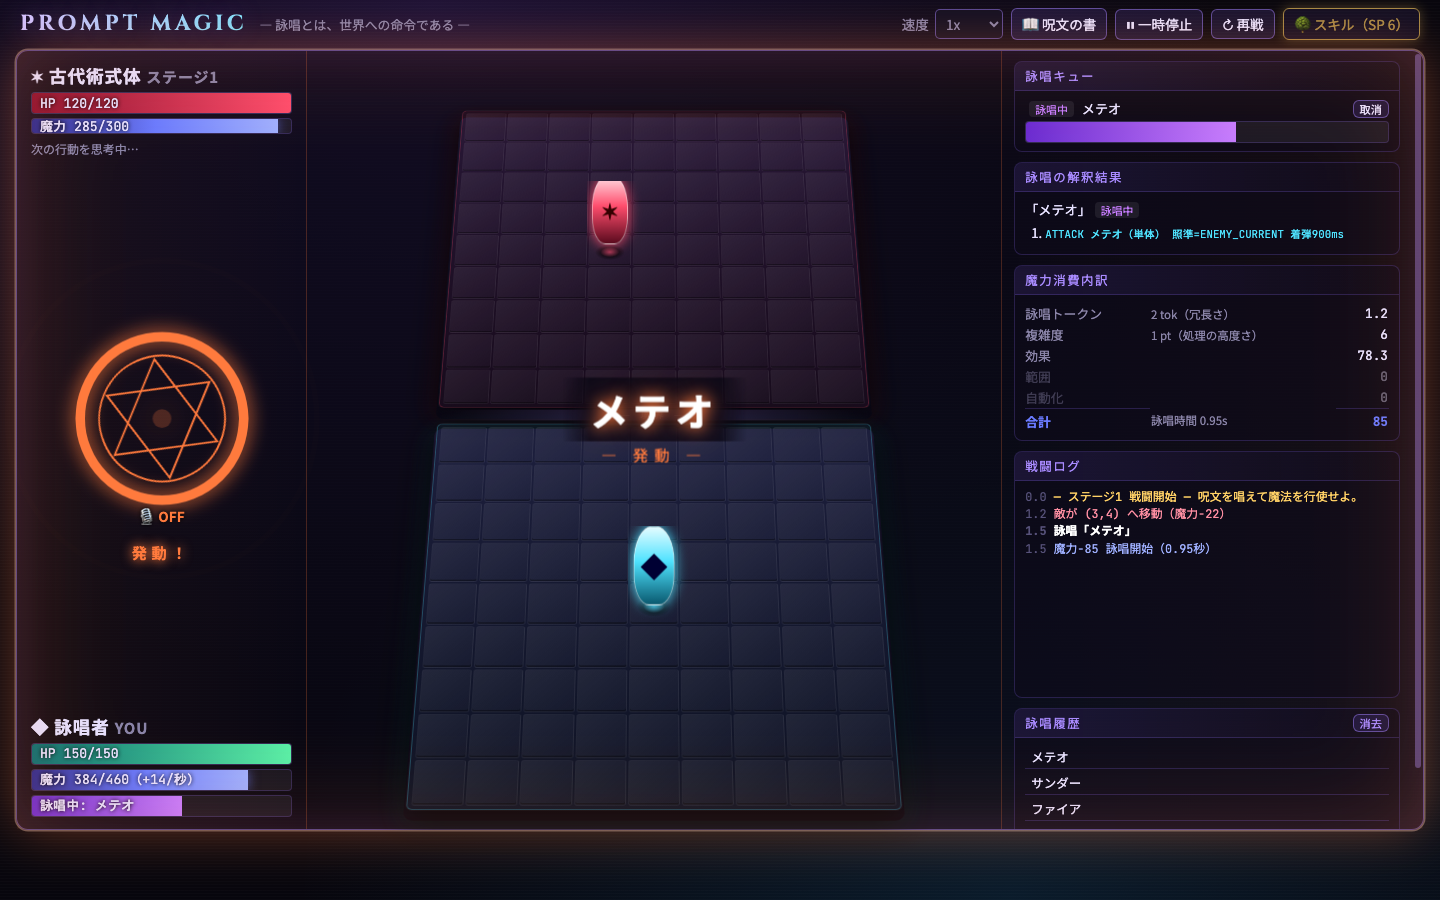
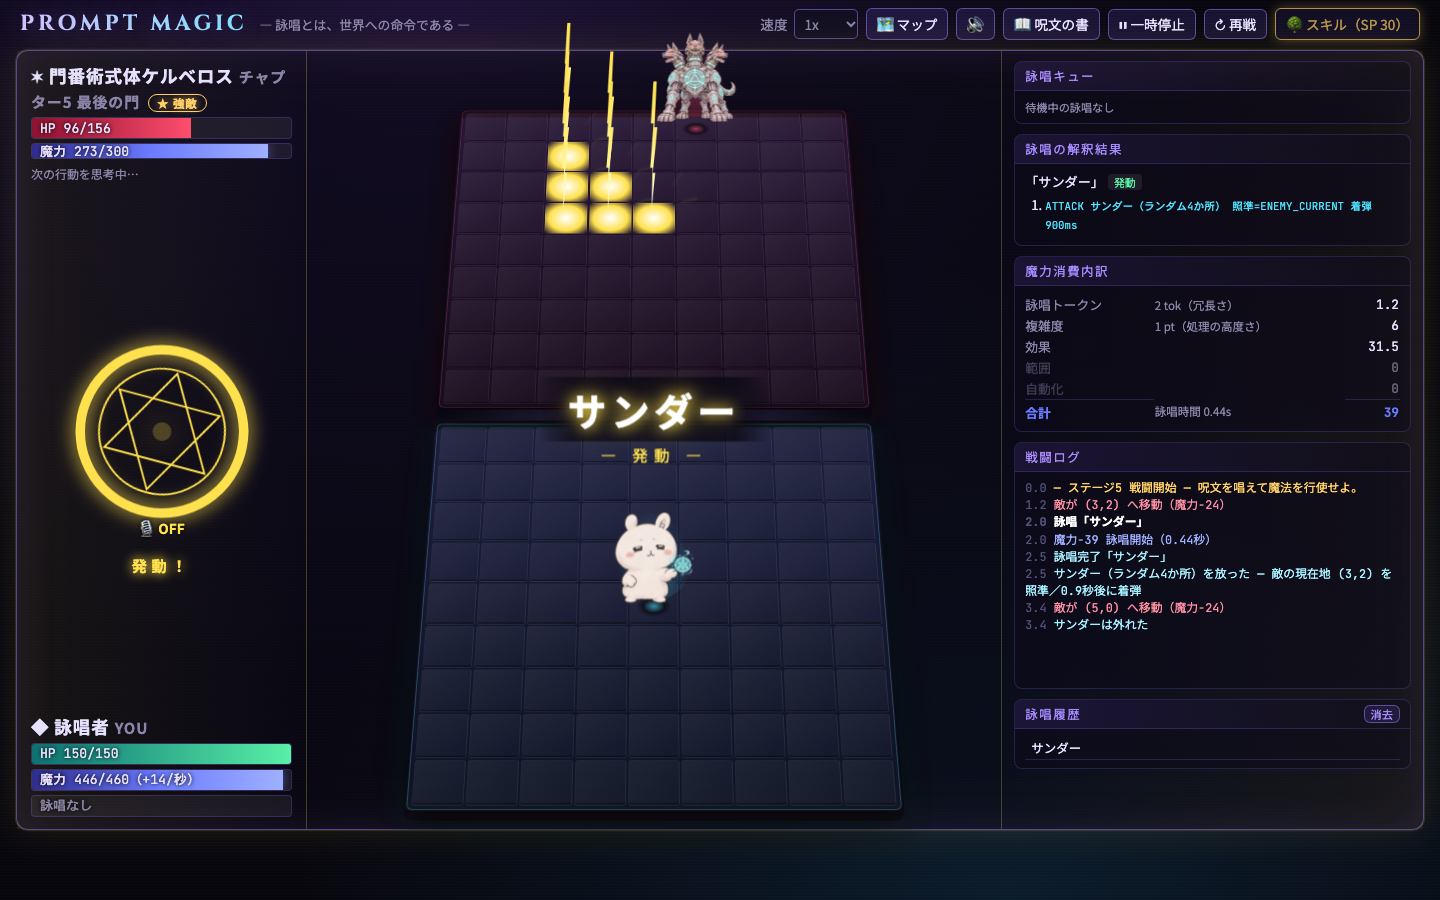
LP の戦闘画面のスクショを今の画面に差し替え、ストーリー紹介の一文を消す

Changed region(s): [[0.0, 0.0, 1.0, 0.9644], [0.375, 0.4356, 0.5312, 0.5289], [0.4062, 0.56, 0.5, 0.6844]]

diff --git a/src/lp/Landing.tsx b/src/lp/Landing.tsx
@@ -55,7 +55,7 @@ export function Landing() {
       </section>
 
       <section className="lp-shot">
-        <img src="lp/screen.png" alt="戦闘画面。左に魔法陣と体力、まんなかに3Dの盤面、唱えた呪文「メテオ」が大きく出ている" loading="lazy" />
+        <img src="lp/screen.png" alt="戦闘画面。左に魔法陣と体力、まんなかに3Dの盤面。やにかわが唱えた「サンダー」の稲妻が、門番ケルベロスの盤面に落ちている" loading="lazy" />
       </section>
 
       <section className="lp-sec lp-story">
@@ -70,7 +70,6 @@ export function Landing() {
           </p>
         </div>
         <img className="lp-story-wide" src="story/ep1/07-surface.jpg" alt="折れた東京タワーと巨大な水晶、宙に浮かぶ岩が広がる、異世界のような未来の東京" loading="lazy" />
-        <p className="lp-sub">紙芝居でストーリーを読み、すごろくのマップでチャプターを進めながら戦う。</p>
       </section>
 
       <section className="lp-sec">
